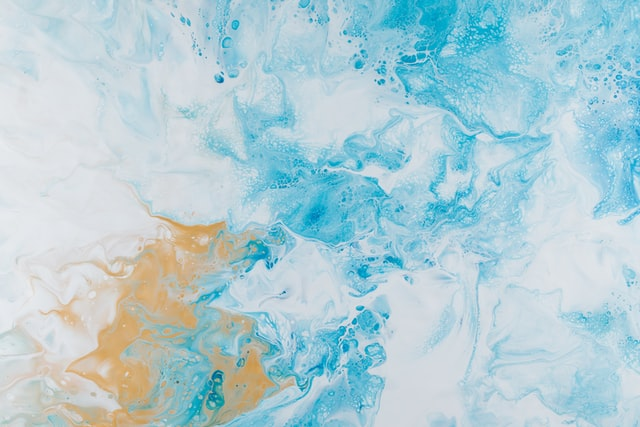
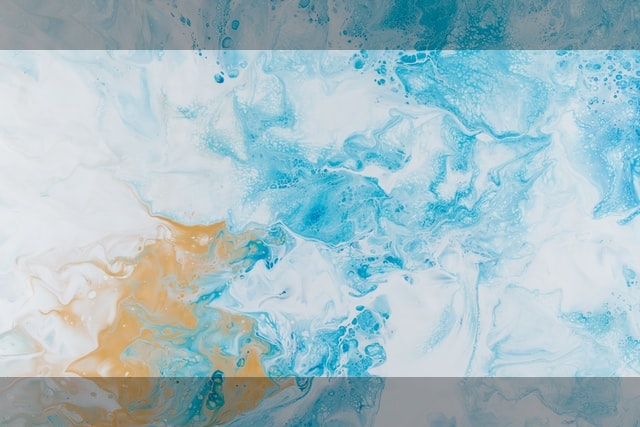
Customised projects page, added projects

Changed region(s): [[0.0, 0.8829, 1.0, 1.0], [0.0, 0.0, 1.0, 0.1218]]

diff --git a/src/Details.js b/src/Details.js
@@ -46,12 +46,11 @@ import vite from './assets/techstack/vite-js-logo.png';
 import mapbox from './assets/techstack/mapbox-logo.png';
 
 // Project Images
-import projectImage1 from './assets/projects/project1.jpg';
-import projectImage2 from './assets/projects/project2.jpg';
-import projectImage3 from './assets/projects/project3.jpg';
-import projectImage4 from './assets/projects/project4.jpg';
-import projectImage5 from './assets/projects/project5.jpg';
-import projectImage6 from './assets/projects/project6.jpg';
+import boulderberlin from './assets/projects/boulderberlin.png';
+import mystictarot from './assets/projects/mystictarot.png';
+import pfantastisch from './assets/projects/pfandtastisch.png';
+import mixtape from './assets/projects/mixtape.png';
+import boulderbbs from './assets/projects/boulderbbs.png';
 import weatherWear from './assets/projects/weather_wear.png';
 
 // Logos
@@ -143,6 +142,7 @@ export const workDetails = [
 		Description:
 			'I developed a web portfolio for a versatile SFX makeup artist using React and JavaScript, ensuring a responsive and interactive frontend. Employing Material-UI and styled-components, I crafted a visually appealing and modern website. I integrated a lightbox feature, enhancing user experience by allowing detailed exploration of project details. Additionally, I organized project data—descriptions, images, and achievements—in a structured and easily accessible format.',
 		Company: `Galaxy Girl MUA`,
+		Website: 'https://github.com/joshuabarua/galaxy-girl-vite',
 		Location: 'Remote/Brighton, UK',
 		Type: 'Freelance',
 		Duration: 'Jan 2022 - Jan 2023',
@@ -220,6 +220,14 @@ export const eduDetails = [
 // Enter your Project Details here
 export const projectDetails = [
 	{
+		title: 'Boulder Bebis',
+		image: boulderbbs,
+		description: `A booking website for buying tokens to use at a local boulder hall timeslot online`,
+		techstack: 'Typescript, Graphql, MongoDB, Passport, JWT, Auth,  HTML/CSS, JavaScript, Express, NodeJS, Client/Server',
+		previewLink: 'https://portfolio-ten-iota-87.vercel.app/',
+		githubLink: 'https://github.com/joshuabarua/Final_Project_CAB',
+	},
+	{
 		title: 'Weather Wear',
 		image: weatherWear,
 		description: `An app that consumes an API using Javascript. This is weather app that tells you what to wear given the temperature throughout the day based on clothing options selected.`,
@@ -228,54 +236,35 @@ export const projectDetails = [
 		githubLink: 'https://github.com/joshuabarua/CAB-JS-API-weatherApp',
 	},
 	{
-		title: 'Project title 2',
-		image: projectImage2,
-		description: `This is sample project description random things are here in description This is sample
-project lorem ipsum generator for dummy content`,
-		techstack: 'HTML/CSS, JavaScript',
-		previewLink: 'https://google.com',
-		githubLink: 'https://github.com',
+		title: 'Pfandtastisch',
+		image: pfantastisch,
+		description: `Currently not hosted as being still working on! A web app to help users find the nearest pfandmachine nearby. Currently not hosted! `,
+		techstack: 'Typescript, Reactjs, MongoDB, JWT, Express, Passport, Bcrypt/Auth, nodeJS, Client/Server, ',
+		previewLink: 'https://portfolio-ten-iota-87.vercel.app/',
+		githubLink: 'https://github.com/joshuabarua/pfantastisch-app',
 	},
 	{
-		title: 'Project title 3',
-		image: projectImage3,
-		description: `This is sample project description random things are here in description This is sample
-project lorem ipsum generator for dummy content`,
-		techstack: 'HTML/CSS, JavaScript',
-		previewLink: 'https://google.com',
-		githubLink: 'https://github.com',
+		title: 'Mystic Tarot',
+		image: mystictarot,
+		description: `A Tarot Card website that allows card selections and firebase as a login system. Work in progress!`,
+		techstack: 'Typescript, Reactjs, CSS, Firebase',
+		previewLink: 'https://cab-tarot-card-site-ts.vercel.app/',
+		githubLink: 'https://github.com/joshuabarua/CAB-tarot-card-site-ts',
 	},
 	{
-		title: 'Project title 4',
-		image: projectImage4,
-		description: `This is sample project description random things are here in description This is sample
-project lorem ipsum generator for dummy content`,
-		techstack: 'HTML/CSS, JavaScript',
-		previewLink: 'https://google.com',
-		githubLink: 'https://github.com',
+		title: 'Mixtape',
+		image: mixtape,
+		description: `A simple webapp to play songs that look like a mixtape`,
+		techstack: 'Reactjs, JavaScript, CSS, Material-UI',
+		previewLink: ' mixtape4pati.vercel.app/ ',
+		githubLink: 'https://github.com/joshuabarua/mixtape_app',
 	},
 	{
-		title: 'Project title 5',
-		image: projectImage5,
-		description: `This is sample project description random things are here in description This is sample
-project lorem ipsum generator for dummy content`,
-		techstack: 'HTML/CSS, JavaScript',
-		previewLink: 'https://google.com',
-		githubLink: 'https://github.com',
-	},
-	{
-		title: 'Project title 6',
-		image: projectImage6,
-		description: `This is sample project description random things are here in description This is sample
-project lorem ipsum generator for dummy content`,
-		techstack: 'HTML/CSS, JavaScript',
-		previewLink: 'https://google.com',
-		githubLink: 'https://github.com',
+		title: 'Boulder Berlin',
+		image: boulderberlin,
+		description: `A simple website to test design skills with only HTML/CSS`,
+		techstack: 'HTML/CSS',
+		previewLink: 'https://bouldering-37fr51one-acancerouscake.vercel.app/pages/contact.html',
+		githubLink: 'https://github.com/joshuabarua/CAB-project1-HTML-CSS',
 	},
 ];
-
-// Enter your Contact Details here
-export const contactDetails = {
-	email: 'joshua.k.barua@gmail.com',
-	phone: '+49 176 4184 9375',
-};

diff --git a/src/Components/Project.js b/src/Components/Project.js
@@ -2,14 +2,14 @@ import React from 'react';
 
 function Project({title, image, description, techstack, previewLink, githubLink}) {
 	return (
-		<article className="rounded-xl max-w-[600px] max-h-[500px] mt-5 overflow-hidden shadow-md shadow-slate-300 dark:shadow-slate-900">
-			<div className="w-full">
-				<img src={image} alt="" loading="lazy" />
-				<div className="dark:bg-dark-card p-4">
+		<article className="rounded-xl max-w-[400px] min-w-[250px] max-h-[500px] mt-5 overflow-hidden shadow-md shadow-slate-300 dark:shadow-slate-900">
+			<div className="w-full h-full">
+				<img src={image} alt="" loading="lazy" className="max-h-[225px]" />
+				<div className="dark:bg-dark-card p-4 h-full">
 					<h1 className="dark:text-light-heading font-semibold text-lg pt-1">{title}</h1>
 					<p className="wrapped-text pt-4 font-light">{description}</p>
 					<h3 className="text-dark-heading dark:text-light-heading font-medium pt-4">
-						Tech Stack : <span className="font-light">{techstack}</span>
+						Tech Stack: <span className="wrapped-text font-light">{techstack}</span>
 					</h3>
 					<div className="flex justify-between items-center mt-5">
 						<div className="flex items-center">

diff --git a/src/Pages/Projects.js b/src/Pages/Projects.js
@@ -7,7 +7,7 @@ function Projects() {
 		<main className="h-screen w-[90%] mt-[200px] flex justify-start items-end flex-col">
 			<section className="w-[70%]">
 				<h1 className="text-1xl text-left text-dark-heading dark:text-light-heading md:text-3xl xl:text-4xl xl:leading-tight font-bold">Projects</h1>
-				<div className=" mb-[350px] grid grid-cols-1 md:grid-cols-1 lg:grid-cols-2 gap-x-6">
+				<div className=" mb-[350px] grid grid-cols-1 md:grid-cols-1 lg:grid-cols-2 gap-x-2">
 					{React.Children.toArray(
 						projectDetails.map(({title, image, description, techstack, previewLink, githubLink}) => (
 							<Project title={title} image={image} description={description} techstack={techstack} previewLink={previewLink} githubLink={githubLink} />

diff --git a/src/index.css b/src/index.css
@@ -223,6 +223,7 @@ header {
 	top: calc(var(--pad) * 2);
 	width: 50%;
 	color: var(--text-light);
+	backdrop-filter: difference;
 }
 
 .header {
@@ -232,6 +233,7 @@ header {
 	top: calc(var(--pad) * 4);
 	color: var(--text-light);
 	margin-top: 70px;
+	backdrop-filter: difference;
 }
 
 #content {

diff --git a/README.md b/README.md
@@ -1,1 +1,13 @@
+<<<<<<< Updated upstream
 Original template by contributor Pavanmg007 modified to fit my use case.
+=======
+# React Developer Portfolio
+
+### Preview ( Dark Mode )
+
+## Follow Below instructions to add your deatils in the portfolio.
+
+### Change and customize every section according to your need, All you need to do is edit `/src/Details.js`
+
+#### Open `/src/Details.js` & modify it as per your need.
+>>>>>>> Stashed changes
